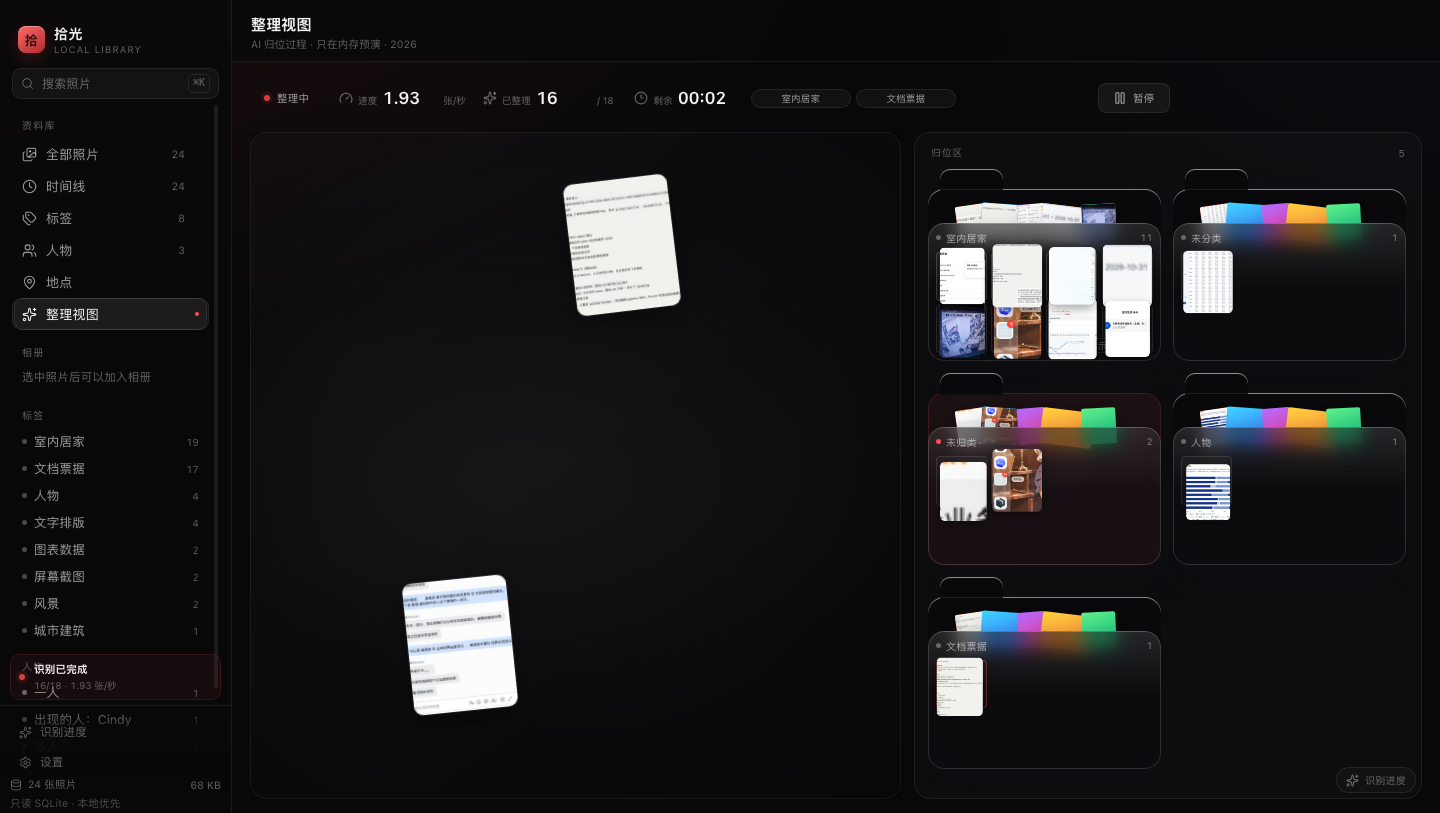
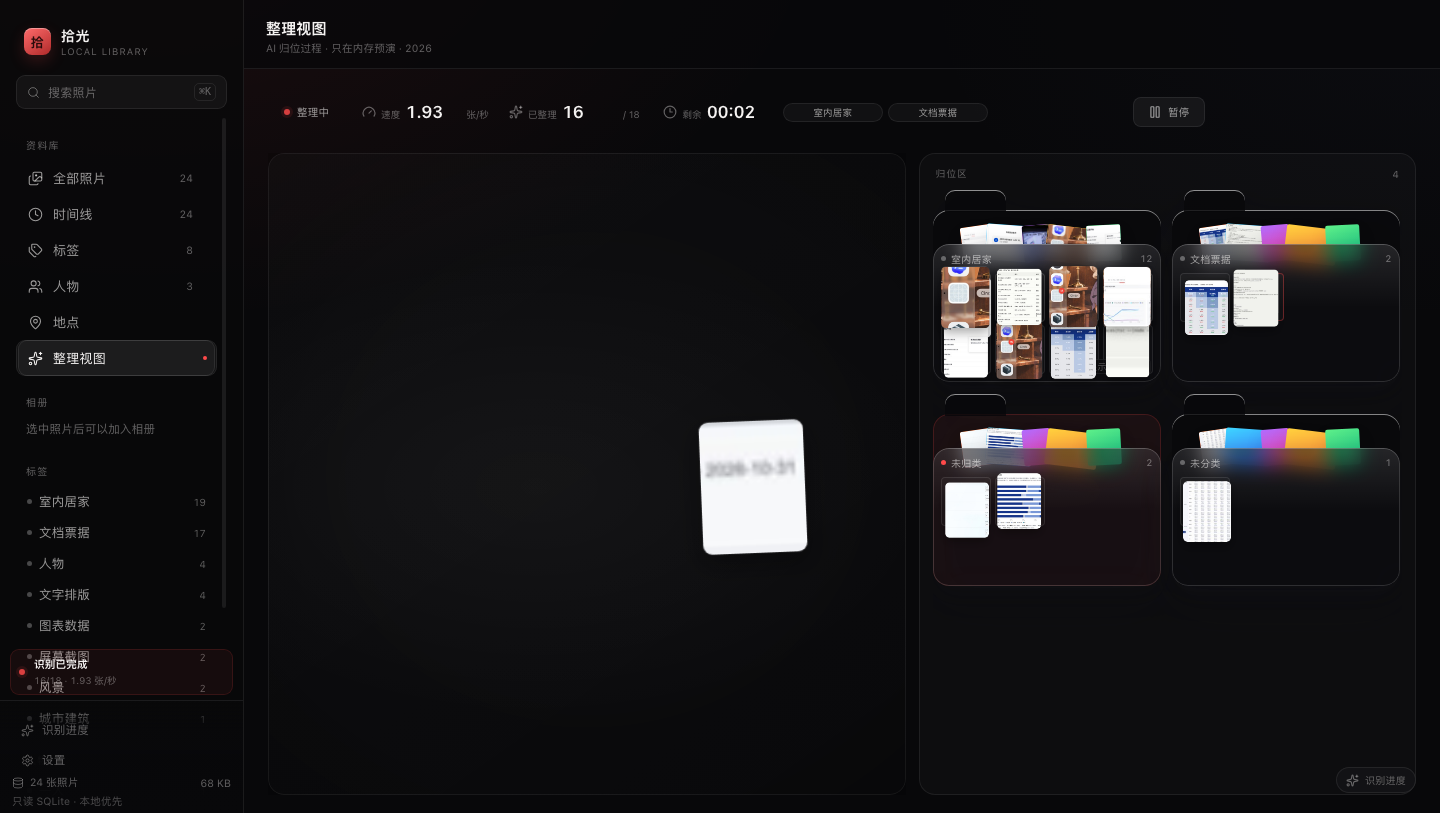
feat(ui): 全站间距改为宽松档（含 GAP 14 与 gridColumnCount 244/48）

diff --git a/desktop/src/styles.css b/desktop/src/styles.css
@@ -1250,3 +1250,55 @@ button:focus-visible, input:focus-visible {
   box-shadow: 0 0 0 1px var(--line) inset; font-size: 11.5px;
 }
 .selection-bar .selection-delete:hover { color: var(--accent); box-shadow: 0 0 0 1px var(--accent-line) inset; }
+
+/* ================= 密度：宽松一档（docs/design/DENSITY-LOOSE.md） ================= */
+.app { grid-template-columns: 244px minmax(0, 1fr); }
+.sidebar { padding: 0 14px 16px; }
+.brand { padding: 4px 10px 18px; gap: 10px; }
+.sidebar-search { height: 34px; padding: 0 11px; margin: 0 2px 6px; }
+.sidebar-scroll { padding: 4px 2px 184px; }
+.nav-group-label { padding: 19px 10px 8px; }
+.nav-item { padding: 9px 24px 9px 12px; gap: 10px; }
+.tag-pill { padding: 7px 11px; }
+.sidebar-foot { padding: 14px 12px 4px; }
+
+.toolbar { min-height: 64px; padding: 14px 24px 12px 22px; gap: 12px; }
+.search { height: 36px; padding: 0 12px; }
+.condition-bar { padding: 0 24px 14px; min-height: 40px; gap: 14px; }
+
+.grid-scroll { padding: 16px 24px 40px; }
+.timeline-scroll { padding: 0 24px 44px; }
+.month-row { gap: 14px; padding: 10px 12px; }
+.month-cover { width: 80px; height: 80px; }
+.month-header { padding: 18px 1px 12px; }
+.timeline-grid { gap: 14px; }
+
+.category-scroll { padding: 34px 34px 48px; }
+.category-head { margin: 0 1px 32px; }
+.category-grid { grid-template-columns: repeat(auto-fill, minmax(248px, 1fr)); gap: 20px; }
+.category-card .category-front { left: 10px; right: 10px; bottom: 10px; padding: 12px 14px; border-radius: 13px; }
+.category-name { font-size: 13.5px; }
+.category-count { font-size: 11px; }
+
+.organize-shell { padding: 16px 24px 18px; }
+.organize-top { padding: 2px 2px 26px; }
+.organize-hud { height: 54px; padding: 9px 12px 9px 16px; margin-bottom: 14px; gap: 20px; }
+.group-rail { padding: 14px 14px 10px; }
+.group-panels { gap: 12px; }
+.group-rail .group-panel { height: 192px; }
+
+.overlay-root { grid-template-columns: minmax(0, 1fr) 360px; }
+.stage { padding: 48px 52px; }
+.stage-full { padding: 56px 26px 28px; }
+.file-name { margin: 0 0 24px; }
+.caption { margin: 0 0 24px; line-height: 1.72; }
+.meta-grid { gap: 9px 12px; margin: 0 0 24px; }
+.tag-cloud { gap: 8px; margin-bottom: 24px; }
+.ocr { padding: 12px 13px; }
+.inspector-actions { gap: 10px; margin-top: 28px; padding-top: 20px; }
+.inspector-actions button { min-height: 36px; }
+
+.settings-scroll { padding: 32px 36px 52px; }
+.settings-intro { margin-bottom: 26px; }
+.settings-grid { gap: 15px; }
+.settings-card { padding: 20px; }

diff --git a/desktop/src/utils.ts b/desktop/src/utils.ts
@@ -11,7 +11,7 @@ export type AssetFilters = {
   place: string | null;
 };
 
-export const GAP = 10;
+export const GAP = 14;
 
 export function formatBytes(bytes?: number): string {
   if (!bytes || bytes <= 0) return "—";
@@ -135,6 +135,7 @@ export function unique<T>(values: T[]): T[] {
 export function gridColumnCount(viewportWidth: number, density: "comfort" | "compact"): number {
   const requested = density === "compact" ? 8 : 6;
   const minCell = density === "compact" ? 132 : 160;
-  const available = viewportWidth - 232 - 40;
+  // 244 = 侧栏宽，48 = 网格左右 padding 之和（见 DENSITY-LOOSE.md）
+  const available = viewportWidth - 244 - 48;
   return Math.max(1, Math.min(requested, Math.floor((available + GAP) / (minCell + GAP))));
 }

diff --git a/desktop/docs/PERF.md b/desktop/docs/PERF.md
@@ -366,3 +366,26 @@ python3 scripts/bench_ui_dev.py --home /tmp/sg-bench-10w --out /tmp/bench-main.j
 五条文件边露出 19.7 / 19.9 / 19.9 / 19.7 / 19.9px，越界 0。
 
 照片网格的 GAP / minCell（utils.ts 的 JS 常量）没有动，10 万级滚动基线不受影响。
+
+### 全站宽松（DENSITY-LOOSE）实测
+
+按 `docs/design/DENSITY-LOOSE.md` 把间距铺到侧栏/工具栏/条件栏/网格/时间线/分类/整理/详情/设置。
+关键耦合一起改了：`utils.ts` 的 `GAP` 10 → 14，`gridColumnCount` 的 `232 - 40` → `244 - 48`。
+
+| 宽度 | 网格列数 | 单格宽 | 分类列数 | 分类卡宽 | 详情栏 | 详情横向滚动 |
+| --- | ---: | ---: | ---: | ---: | ---: | --- |
+| 1440 | 6 | 178px | 4 | 267px | 360px | 无 |
+| 1280 | 5 | 184px | 3 | 306px | 360px | 无 |
+
+整理分组面板 228×192（侧栏 244 之后 rail 变窄），五条文件边露出 19.7–19.9px。
+
+**10 万级回归**（`bench_ui_dev.py --release`，两次）
+
+| 指标 | 基线 | 实测 |
+| --- | ---: | ---: |
+| cold | 555ms | 497ms / 769ms（两次，机器负载 4.0 上下） |
+| warm p50 | 143ms | 144ms |
+| RSS 峰值 | 124MB | 113.1MB / 118.3MB |
+
+**滚动**：窗口态下 bench 的 rAF 被节流，数字不可用；改用无头 10 万条 fixture 复测——
+6 列、**60.31fps**、最长帧 16.8ms、>20ms **0**。虚拟列表没被 GAP 改动带坏。
